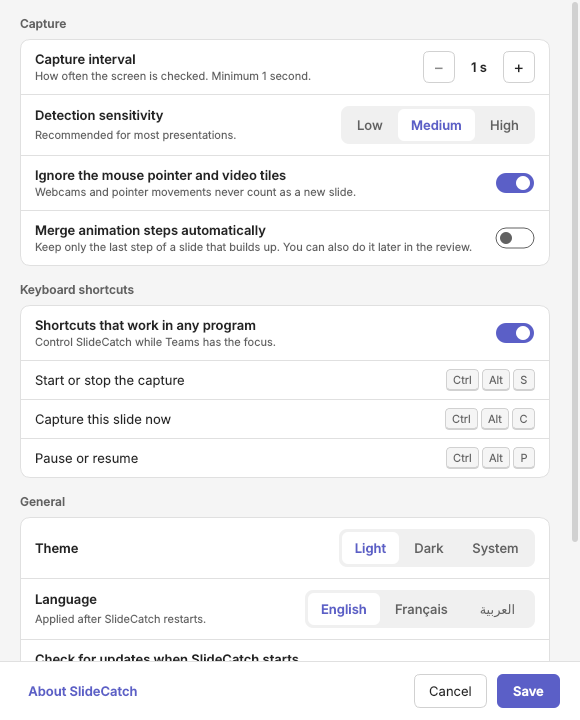
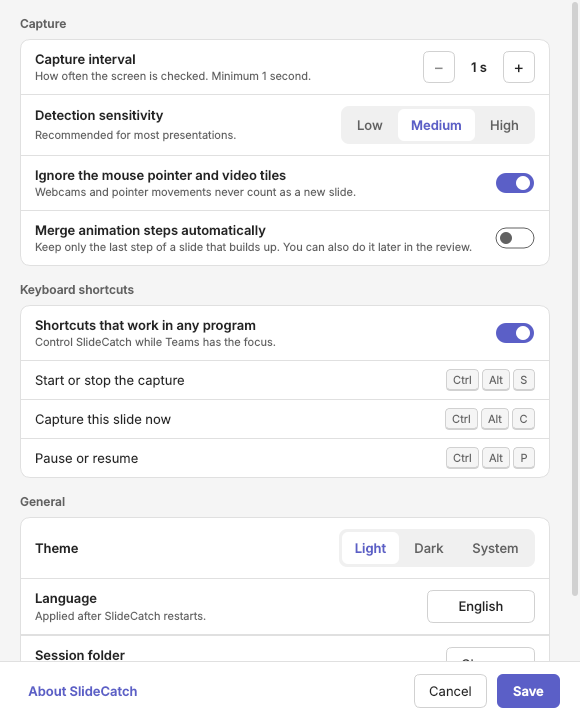
Page: docs/index.html, TERMS.md, refreshed screenshots
Claude-Session: https://claude.ai/code/session_01ExH4iRFLtrXoBdQJVDfoYF

diff --git a/docs/index.html b/docs/index.html
@@ -1,0 +1,268 @@
+<!DOCTYPE html>
+<html lang="en">
+<head>
+<meta charset="utf-8">
+<meta name="viewport" content="width=device-width, initial-scale=1">
+<title>SlideCatch — save every Teams slide</title>
+<meta name="description" content="SlideCatch watches a presentation in Microsoft Teams and keeps every slide. Export to PowerPoint, PDF or pictures.">
+<style>
+:root{
+  --ink:#1d1d2b; --ink2:#55566b; --paper:#f4f4fa; --white:#fff;
+  --brand:#5b5fc7; --brand-deep:#33357a; --brand-soft:#e4e5f7; --line:#dcdcea;
+  --font:"Segoe UI Variable Display","Segoe UI","Helvetica Neue",Arial,system-ui,sans-serif;
+}
+*{box-sizing:border-box}
+html{scroll-behavior:smooth}
+body{margin:0;font-family:var(--font);color:var(--ink);background:var(--paper);line-height:1.55;font-size:17px;-webkit-font-smoothing:antialiased}
+img{max-width:100%;display:block}
+a{color:var(--brand-deep)}
+:focus-visible{outline:3px solid var(--brand);outline-offset:3px;border-radius:6px}
+.wrap{max-width:1120px;margin:0 auto;padding:0 24px}
+
+/* top bar */
+header.top{display:flex;align-items:center;justify-content:space-between;padding:18px 0}
+.brand{display:flex;align-items:center;gap:10px;font-weight:700;font-size:19px;letter-spacing:-.01em;color:var(--ink);text-decoration:none}
+.brand img{width:30px;height:30px;border-radius:7px}
+.btn{display:inline-flex;align-items:center;gap:8px;background:var(--brand);color:#fff;text-decoration:none;font-weight:600;padding:13px 22px;border-radius:10px;transition:background .15s,transform .15s}
+.btn:hover{background:var(--brand-deep)}
+.btn:active{transform:translateY(1px)}
+.btn.small{padding:9px 16px;font-size:15px}
+.btn.ghost{background:transparent;color:var(--brand-deep);box-shadow:inset 0 0 0 2px var(--brand-soft)}
+.btn.ghost:hover{background:var(--brand-soft)}
+
+/* hero */
+.hero{display:grid;grid-template-columns:minmax(0,5fr) minmax(0,6fr);gap:48px;align-items:center;padding:36px 0 72px}
+h1{font-size:clamp(40px,6vw,68px);line-height:1.02;letter-spacing:-.035em;margin:0 0 18px;font-weight:700}
+.lead{font-size:20px;color:var(--ink2);max-width:30em;margin:0 0 28px}
+.cta{display:flex;flex-wrap:wrap;gap:12px;align-items:center}
+.meta{margin:14px 0 0;color:var(--ink2);font-size:15px}
+
+/* hero animation */
+.stage{position:relative}
+.win{background:var(--white);border-radius:14px;box-shadow:0 30px 60px -24px rgba(51,53,122,.45),0 0 0 1px var(--line);overflow:hidden;position:relative}
+.win-bar{display:flex;align-items:center;gap:8px;background:#464775;color:#fff;padding:8px 12px;font-size:13px}
+.win-bar i{width:9px;height:9px;border-radius:50%;background:#ffffff55;display:block}
+.win-bar b{margin-left:6px;font-weight:600}
+.win-body{display:grid;grid-template-columns:1fr 74px;gap:8px;padding:8px;background:#2b2b3a}
+.shared{position:relative;aspect-ratio:16/9;background:#fff;border-radius:6px;overflow:hidden}
+.tiles{display:grid;gap:6px;align-content:start}
+.tiles span{aspect-ratio:4/3;border-radius:6px;background:linear-gradient(135deg,#6c6f9c,#454766);position:relative}
+.tiles span::after{content:"";position:absolute;left:50%;top:34%;width:30%;aspect-ratio:1;border-radius:50%;background:#ffffff40;transform:translateX(-50%)}
+.slide{position:absolute;inset:0;padding:6% 7%;display:flex;flex-direction:column;gap:5%;opacity:0;transform:translateX(6%);transition:opacity .45s ease,transform .45s ease;color:#2a2a3c}
+.slide.on{opacity:1;transform:none}
+.slide h4{margin:0;font-size:clamp(13px,2.1vw,22px);letter-spacing:-.02em}
+.slide small{font-size:clamp(8px,1.1vw,12px);color:#7a7b91}
+.s-title{justify-content:center;background:linear-gradient(120deg,#5b5fc7,#33357a);color:#fff}
+.s-title small{color:#d8d9f6}
+.bars{flex:1;display:flex;align-items:flex-end;gap:5%}
+.bars i{flex:1;background:var(--brand);border-radius:3px 3px 0 0}
+.bars i:nth-child(2n){background:#9ea1e6}
+.lines{display:grid;gap:7px}
+.lines i{height:8px;border-radius:4px;background:#d9daf0;display:block}
+.lines i:nth-child(1){width:84%}.lines i:nth-child(2){width:70%}.lines i:nth-child(3){width:78%}.lines i:nth-child(4){width:52%}
+.track{flex:1;position:relative;display:flex;align-items:center}
+.track::before{content:"";position:absolute;left:0;right:0;height:3px;background:#d9daf0}
+.track i{position:relative;flex:1;height:14px;display:flex;justify-content:center}
+.track i::before{content:"";width:14px;height:14px;border-radius:50%;background:var(--brand);box-shadow:0 0 0 4px #fff}
+/* catch frame */
+.frame{position:absolute;inset:0;border:2px dashed var(--brand);border-radius:6px;pointer-events:none;opacity:.85}
+.flash{position:absolute;inset:0;background:#fff;opacity:0;pointer-events:none}
+.shutter{position:absolute;right:10px;top:10px;background:#fff;color:var(--brand-deep);font-size:12px;font-weight:700;padding:3px 9px;border-radius:99px;opacity:0;transform:scale(.8);transition:all .25s}
+.shutter.on{opacity:1;transform:none}
+/* filmstrip */
+.strip{display:flex;align-items:center;gap:10px;margin-top:14px;background:var(--white);border-radius:12px;padding:10px;box-shadow:0 0 0 1px var(--line)}
+.slots{display:flex;gap:8px;flex:1}
+.slot{flex:1;aspect-ratio:16/9;border-radius:5px;background:var(--brand-soft);overflow:hidden;position:relative}
+
+.count{min-width:86px;text-align:right;font-weight:700;color:var(--brand-deep);font-variant-numeric:tabular-nums;font-size:15px}
+.out{position:absolute;right:-6px;bottom:-22px;display:flex;gap:6px;opacity:0;transform:translateY(8px);transition:all .4s}
+.out.on{opacity:1;transform:none}
+.out span{background:var(--brand-deep);color:#fff;font-weight:600;font-size:13px;padding:5px 11px;border-radius:99px;box-shadow:0 8px 16px -8px rgba(51,53,122,.7)}
+.fly{position:fixed;z-index:50;pointer-events:none;border-radius:6px;overflow:hidden;box-shadow:0 12px 30px rgba(51,53,122,.35);transform-origin:top left}
+.fly .slide{opacity:1;transform:none;transition:none}
+
+/* sections */
+section{padding:72px 0}
+h2{font-size:clamp(30px,4vw,44px);letter-spacing:-.03em;line-height:1.1;margin:0 0 14px}
+.sub{color:var(--ink2);max-width:34em;margin:0 0 40px}
+.steps{display:grid;grid-template-columns:repeat(3,1fr);gap:28px;counter-reset:s;list-style:none;padding:0;margin:0}
+.steps li{counter-increment:s}
+.steps li::before{content:counter(s);display:grid;place-items:center;width:34px;height:34px;border-radius:50%;background:var(--brand);color:#fff;font-weight:700;margin-bottom:14px}
+.steps h3{margin:0 0 6px;font-size:21px;letter-spacing:-.015em}
+.steps p{margin:0;color:var(--ink2)}
+.shot{border-radius:12px;box-shadow:0 24px 48px -26px rgba(51,53,122,.5),0 0 0 1px var(--line);background:#fff}
+.how-shot{margin-top:44px}
+.band{background:var(--white);border-block:1px solid var(--line)}
+.feature{display:grid;grid-template-columns:minmax(0,5fr) minmax(0,6fr);gap:56px;align-items:center;margin-top:76px}
+.feature:first-of-type{margin-top:0}
+.feature.flip{grid-template-columns:minmax(0,6fr) minmax(0,5fr)}
+.feature.flip .text{order:2}
+.feature h3{font-size:28px;letter-spacing:-.025em;line-height:1.15;margin:0 0 12px}
+.feature p{margin:0;color:var(--ink2);max-width:30em}
+.bar-shot{padding:22px;background:linear-gradient(135deg,#e4e5f7,#f4f4fa);border-radius:14px;display:grid;place-items:center}
+.bar-shot img{border-radius:12px;width:100%;max-width:520px}
+.dl{background:var(--brand-deep);color:#fff;border-radius:22px;padding:56px;display:grid;grid-template-columns:1fr auto;gap:32px;align-items:center}
+.dl h2{color:#fff;margin:0 0 10px}
+.dl p{margin:0;color:#d4d5f2;max-width:32em}
+.dl .btn{background:#fff;color:var(--brand-deep);font-size:18px;padding:16px 28px}
+.dl .btn:hover{background:var(--brand-soft)}
+.dl small{display:block;margin-top:10px;color:#b9bbe6;text-align:center}
+footer{padding:36px 0 56px;color:var(--ink2);font-size:15px}
+footer p{margin:0 0 8px;max-width:46em}
+
+@media (max-width:860px){
+  .hero,.feature,.feature.flip{grid-template-columns:1fr;gap:30px}
+  .feature.flip .text{order:0}
+  .steps{grid-template-columns:1fr}
+  .dl{grid-template-columns:1fr;padding:34px}
+  section{padding:52px 0}
+  .out{position:static;margin-top:10px;transform:none}
+}
+@media (prefers-reduced-motion:reduce){*{transition:none!important;scroll-behavior:auto}}
+</style>
+</head>
+<body>
+<div class="wrap">
+  <header class="top">
+    <a class="brand" href="#"><img src="screenshots/icon.png" alt="" width="30" height="30">SlideCatch</a>
+    <a class="btn small" href="https://github.com/abdelhaouari-AE/SlideCatch/releases/latest">Download</a>
+  </header>
+
+  <div class="hero">
+    <div>
+      <h1>Every Teams slide, caught.</h1>
+      <p class="lead">SlideCatch watches a presentation in Microsoft Teams and keeps a picture of each slide. When it ends, you get a PowerPoint, a PDF or pictures.</p>
+      <div class="cta">
+        <a class="btn" href="https://github.com/abdelhaouari-AE/SlideCatch/releases/latest">Download for Windows</a>
+        <a class="btn ghost" href="#how">How it works</a>
+      </div>
+      <p class="meta">Free · about 25 MB · works offline</p>
+    </div>
+
+    <div class="stage" aria-hidden="true">
+      <div class="win">
+        <div class="win-bar"><i></i><i></i><i></i><b>Weekly design review</b></div>
+        <div class="win-body">
+          <div class="shared" id="shared">
+            <div class="slide s-title on" data-i="0"><h4>Weekly design review</h4><small>Presented by the project team</small></div>
+            <div class="slide" data-i="1"><h4>Budget by package</h4><div class="bars"><i style="height:45%"></i><i style="height:80%"></i><i style="height:60%"></i><i style="height:95%"></i><i style="height:50%"></i></div></div>
+            <div class="slide" data-i="2"><h4>Decisions this week</h4><div class="lines"><i></i><i></i><i></i><i></i></div></div>
+            <div class="slide" data-i="3"><h4>Next milestones</h4><div class="track"><i></i><i></i><i></i><i></i></div></div>
+            <div class="frame"></div>
+            <div class="flash" id="flash"></div>
+            <div class="shutter" id="shutter">Slide saved</div>
+          </div>
+          <div class="tiles"><span></span><span></span><span></span></div>
+        </div>
+      </div>
+      <div class="strip">
+        <div class="slots" id="slots"><div class="slot"></div><div class="slot"></div><div class="slot"></div><div class="slot"></div></div>
+        <div class="count" id="count">0 slides</div>
+      </div>
+      <div class="out" id="out"><span>.pptx</span><span>.pdf</span><span>.png</span></div>
+    </div>
+  </div>
+</div>
+
+<div class="band"><section id="how"><div class="wrap">
+  <h2>How it works</h2>
+  <p class="sub">Open your meeting as usual. SlideCatch does the rest.</p>
+  <ol class="steps">
+    <li><h3>Pick the meeting window</h3><p>SlideCatch finds the shared slide inside it and leaves out the chat and the video tiles.</p></li>
+    <li><h3>Press Start</h3><p>A small bar saves each new slide the moment it appears. The meeting window can stay behind other windows.</p></li>
+    <li><h3>Review and export</h3><p>Reorder, crop or delete slides, then save a PowerPoint, a PDF or pictures.</p></li>
+  </ol>
+  <img class="shot how-shot" src="screenshots/main.png" alt="SlideCatch main window with the live preview of a Teams slide" width="1000" height="660">
+</div></section></div>
+
+<section><div class="wrap">
+  <h2>Made for meeting notes you can reuse</h2>
+  <p class="sub">Small, quick and quiet while the presentation runs.</p>
+
+  <div class="feature">
+    <div class="text"><h3>Only real slides are kept</h3><p>Webcams, the mouse pointer and half-finished transitions are ignored. Going back to a slide never saves it twice.</p></div>
+    <div class="bar-shot"><img class="shot" src="screenshots/minibar.png" alt="The small capture bar at the top of the screen" width="650" height="110"></div>
+  </div>
+
+  <div class="feature flip">
+    <div class="text"><h3>Fix it before you export</h3><p>Reorder by dragging, crop, delete, undo. Animated slides built line by line can be reduced to their final step.</p></div>
+    <img class="shot" src="screenshots/review.png" alt="Review window with captured slides" width="1240" height="800">
+  </div>
+
+  <div class="feature">
+    <div class="text"><h3>Nothing is lost</h3><p>Each slide is written to disk when it is caught. If the computer stops, SlideCatch offers to restore the session at the next start.</p></div>
+    <img class="shot" src="screenshots/settings.png" alt="SlideCatch settings" width="580" height="720" style="max-width:420px;margin:auto">
+  </div>
+
+  <div class="feature flip">
+    <div class="text"><h3>Light or dark, in your language</h3><p>English, French, Spanish, German and Arabic, with the Microsoft Teams colours.</p></div>
+    <img class="shot" src="screenshots/main-en-dark.png" alt="SlideCatch in the dark theme" width="1000" height="660">
+  </div>
+</div></section>
+
+<section id="download" style="padding-top:20px"><div class="wrap">
+  <div class="dl">
+    <div>
+      <h2>Get SlideCatch</h2>
+      <p>Windows 10 or 11. Download the zip, unzip it anywhere and run SlideCatch.exe. It works offline and goes online only to offer you updates.</p>
+    </div>
+    <div>
+      <a class="btn" href="https://github.com/abdelhaouari-AE/SlideCatch/releases/latest">Download for Windows</a>
+      <small>Free · no account</small>
+    </div>
+  </div>
+</div></section>
+
+<footer><div class="wrap">
+  <p>You use SlideCatch at your own responsibility. Ask the presenter's permission before you capture.</p>
+  <p>© 2026 Abdelhalim EL HAOUARI · <a href="https://github.com/abdelhaouari-AE/SlideCatch/blob/main/TERMS.md">Terms of use</a> · <a href="https://github.com/abdelhaouari-AE/SlideCatch">GitHub</a></p>
+</div></footer>
+
+<script>
+(function(){
+  var shared=document.getElementById('shared'), slides=[].slice.call(shared.querySelectorAll('.slide')),
+      slots=[].slice.call(document.querySelectorAll('.slot')), flash=document.getElementById('flash'),
+      shutter=document.getElementById('shutter'), count=document.getElementById('count'), out=document.getElementById('out');
+  var placed=[];
+  function put(i){ // thumbnail in the strip: the real slide, scaled down
+    var s=slides[i].cloneNode(true); s.classList.add('on'); s.style.cssText='position:absolute;left:0;top:0;transform-origin:0 0';
+    slots[i].innerHTML=''; slots[i].appendChild(s); placed[i]=s; fit();
+  }
+  function fit(){
+    var a=shared.getBoundingClientRect();
+    placed.forEach(function(s,i){ if(!s||!slots[i].contains(s))return;
+      var w=slots[i].getBoundingClientRect().width;
+      s.style.width=a.width+'px'; s.style.height=a.height+'px'; s.style.transform='scale('+(w/a.width)+')'; });
+  }
+  window.addEventListener('resize',fit);
+  function label(n){count.textContent=n+(n===1?' slide':' slides');}
+  var reduce=window.matchMedia('(prefers-reduced-motion: reduce)').matches;
+  if(reduce){ for(var k=0;k<4;k++)put(k); label(4); out.classList.add('on'); return; }
+  var wait=function(ms){return new Promise(function(r){setTimeout(r,ms)})};
+  async function run(){
+    for(;;){
+      slots.forEach(function(s){s.innerHTML=''}); placed=[]; label(0); out.classList.remove('on');
+      for(var i=0;i<4;i++){
+        slides.forEach(function(s,j){s.classList.toggle('on',j===i)});
+        await wait(1100);                                   // slide steady
+        flash.animate([{opacity:.85},{opacity:0}],{duration:380,easing:'ease-out'});
+        shutter.classList.add('on');
+        var a=shared.getBoundingClientRect(), b=slots[i].getBoundingClientRect();
+        var fly=document.createElement('div'); fly.className='fly';
+        fly.style.cssText='left:'+a.left+'px;top:'+a.top+'px;width:'+a.width+'px;height:'+a.height+'px';
+        var c=slides[i].cloneNode(true); c.classList.add('on'); fly.appendChild(c); document.body.appendChild(fly);
+        await fly.animate([{transform:'none'},{transform:'translate('+(b.left-a.left)+'px,'+(b.top-a.top)+'px) scale('+(b.width/a.width)+')'}],
+                          {duration:650,easing:'cubic-bezier(.5,0,.2,1)',fill:'forwards'}).finished;
+        fly.remove(); put(i); label(i+1); shutter.classList.remove('on');
+        await wait(500);
+      }
+      out.classList.add('on');
+      await wait(2600);
+    }
+  }
+  var vis=true; new IntersectionObserver(function(e){vis=e[0].isIntersecting}).observe(shared);
+  run();
+})();
+</script>
+</body>
+</html>

diff --git a/TERMS.md b/TERMS.md
@@ -1,0 +1,35 @@
+## Terms of use — SlideCatch 0.3.0
+
+**Use SlideCatch at your own risk. You alone are responsible for what you capture and for what you do with it.**
+
+**1. Purpose.** SlideCatch takes pictures of content shown on your screen, such as a presentation shared in an online meeting, and assembles them into files. All processing happens on your computer. SlideCatch works offline: it has no account, collects no usage data and uploads nothing from you. Its only connection to the internet is to check for and download app updates (see article 11).
+
+**2. Use at your own risk.** You install and use SlideCatch voluntarily and at your own risk. You are solely responsible for the way you use it, for the content you capture, and for every use, copy or sharing of the files it produces.
+
+**3. Consent and confidentiality.** Before capturing a presentation or any shared content, you must:
+
+- obtain the consent of the presenter and, where required, of the owner of the content and the other participants;
+- follow your organisation's rules on IT, security and confidentiality;
+- respect any confidentiality or non-disclosure agreement that covers the meeting or its content.
+
+**4. Compliance with the law.** You must respect the laws that apply to you and to the meeting participants, in particular on personal data (for example in Morocco law n° 09-08, and in the European Union the GDPR), privacy, image rights and intellectual property. Slides may contain personal data, such as names and photos; keeping them makes you responsible for that data.
+
+**5. Uses that are not allowed.** You must not use SlideCatch to capture content secretly or against the will of its owner, to get around a restriction on recording or copying, or to publish, sell or distribute captured content without the right to do so.
+
+**6. Intellectual property.** Captured content remains the property of its owners. SlideCatch gives you no right over the content you capture. The program itself is © Abdelhalim EL HAOUARI, all rights reserved; it may not be copied, modified, resold or redistributed without written permission.
+
+**7. No warranty.** SlideCatch is provided "as is", free of charge, without any warranty of any kind, express or implied. A capture may be incomplete, contain errors or fail, depending on your computer, its settings and the programs being captured. Check the result before relying on it.
+
+**8. Limitation of liability.** As far as the law allows, the author is not liable for any direct or indirect damage arising from the use of SlideCatch or from being unable to use it, including loss of data, missing slides, disclosure of confidential information, and any claim by a third party following a capture made without permission.
+
+**9. Your guarantee.** If a third party makes a claim against the author because of the way you used SlideCatch or the content you captured, you agree to bear the consequences of that claim.
+
+**10. Changes.** These terms may change with new versions of SlideCatch. When they change in substance, the program asks you to accept them again.
+
+**11. Updates and internet.** SlideCatch works offline. It connects to the internet only to check, each time it starts, whether a newer version exists, and to download it. Nothing from you (slides, files, usage data) is uploaded. GitHub, which hosts the updates, sees your IP address and the program name and version, like for any web page. Keeping SlideCatch up to date is part of using it: a new version is installed when you choose "Update now".
+
+**12. Acceptance.** By clicking "I agree", or by using SlideCatch, you confirm that you have read, understood and accepted these terms. If you do not agree, click "Decline" and SlideCatch closes.
+
+These terms are given for information and do not replace legal advice. For questions about a specific use, ask your organisation's legal or compliance department.
+
+© 2026 Abdelhalim EL HAOUARI. All rights reserved.

diff --git a/docs/DEVELOPMENT.md b/docs/DEVELOPMENT.md
@@ -57,7 +57,7 @@ slidecatch/
     preview.py, rect_select.py, region_select.py   drawing widgets
     theme.py, icons.py, widgets.py, imaging.py     colours, icons, small widgets, picture helpers
   locales/fr.py, ar.py      translations {English: translation}
-  resources/                guide_xx.md, terms_xx.md (3 languages), icon.png
+  resources/                guide_xx.md, terms_xx.md (5 languages), icon.png
 tests/                      pytest suite; fakes.py draws slides and meeting windows
 scripts/                    build_windows.bat, screenshots.py, list_texts.py, make_icon.py
 SlideCatch.spec             PyInstaller recipe (what goes into the build, what is left out)
@@ -174,7 +174,7 @@ Change the constants at the top of `core/detect.py`, run `pytest tests/test_dete
 | `test_pptx.py`, `test_export.py` | PowerPoint structure (reopened with python-pptx), PDF, PNG, cancel |
 | `test_i18n.py` | all texts translated, placeholders, plurals, right-to-left helpers |
 | `test_config.py` | settings file, repairs, portable mode |
-| `test_ui.py` | windows in 3 languages; start → 2 slides → stop → review → export, driven like a person |
+| `test_ui.py` | windows in 5 languages; start → 2 slides → stop → review → export, driven like a person |
 | `test_updates.py` | versions, release data, safe unzip, download with a local server, update dialog logic, terms shown at first start |
 | `test_windows.py` | **Windows only**: the update helper script (files replaced, folders kept, rollback),  real captures (WGC, PrintWindow, screen), covered window, minimized/closed window, mini bar invisible in captures, shortcuts |
 
